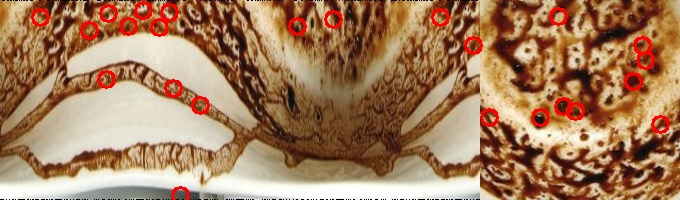
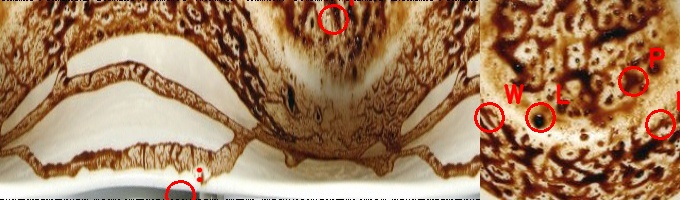
circles

diff --git a/scripts/coffee.py b/scripts/coffee.py
@@ -1,7 +1,9 @@
 import os
 import sys
 import cv2
+import math
 import torch
+import random
 import numpy as np
 from PIL import Image
 import torchvision.transforms as transforms
@@ -241,26 +243,57 @@ def detect_and_interpret(image_path, model_path="char_symbol_cnn.pt"):
     contours, _ = cv2.findContours(thresh, cv2.RETR_EXTERNAL, cv2.CHAIN_APPROX_SIMPLE)
     h, w = image.shape[:2]
     results = {}
+    positions = {}
     drawn_image = image_rgb.copy()
     count_valid = 0
+
     for cnt in contours:
         x, y, bw, bh = cv2.boundingRect(cnt)
         if 10 <= bw <= 60 and 10 <= bh <= 60:
             patch = image_rgb[y:y+bh, x:x+bw]
             cx, cy = x + bw // 2, y + bh // 2
             try:
-                char = predict_char(patch, model, class_names)
-                meaning = CHAR_MEANINGS.get(char.upper(), "unknown")
+                char = predict_char(patch, model, class_names).upper()
+                meaning = CHAR_MEANINGS.get(char, "unknown")
                 zone = map_position_to_zone(cx, cy, (h, w), part="wall")
-                cv2.circle(drawn_image, (cx, cy), 8, (255, 0, 0), 2)
                 results[char] = (meaning, zone)
+                if char not in positions:
+                    positions[char] = (cx, cy)
                 count_valid += 1
             except:
                 continue
+
     if count_valid == 0:
         print("Bad image quality. Try taking image with better lighting or better angle!")
         sys.exit(1)
+
+    # Filter to ensure selected characters are far apart
+    def is_far_enough(candidate_pos, chosen_positions, min_dist=50):
+        for pos in chosen_positions:
+            dist = math.hypot(candidate_pos[0] - pos[0], candidate_pos[1] - pos[1])
+            if dist < min_dist:
+                return False
+        return True
+
+    candidates = list(positions.items())
+    random.shuffle(candidates)
+    chosen = []
+    chosen_positions = []
+
+    for char, (cx, cy) in candidates:
+        if is_far_enough((cx, cy), chosen_positions, min_dist=50):
+            chosen.append((char, (cx, cy)))
+            chosen_positions.append((cx, cy))
+        if len(chosen) >= 6:
+            break
+
+    for char, (cx, cy) in chosen:
+        cv2.circle(drawn_image, (cx, cy), 14, (255, 0, 0), 2)
+        cv2.putText(drawn_image, char, (cx + 15, cy - 15),
+                    cv2.FONT_HERSHEY_SIMPLEX, 0.8, (255, 0, 0), 2, cv2.LINE_AA)
+
     cv2.imwrite("sonja_result.jpg", cv2.cvtColor(drawn_image, cv2.COLOR_RGB2BGR))
+
     print("\n🔮 Fortune Telling Result:\n")
     for char, (meaning, zone) in sorted(results.items()):
         print(f"'{char}' : ({meaning}, {zone})")
